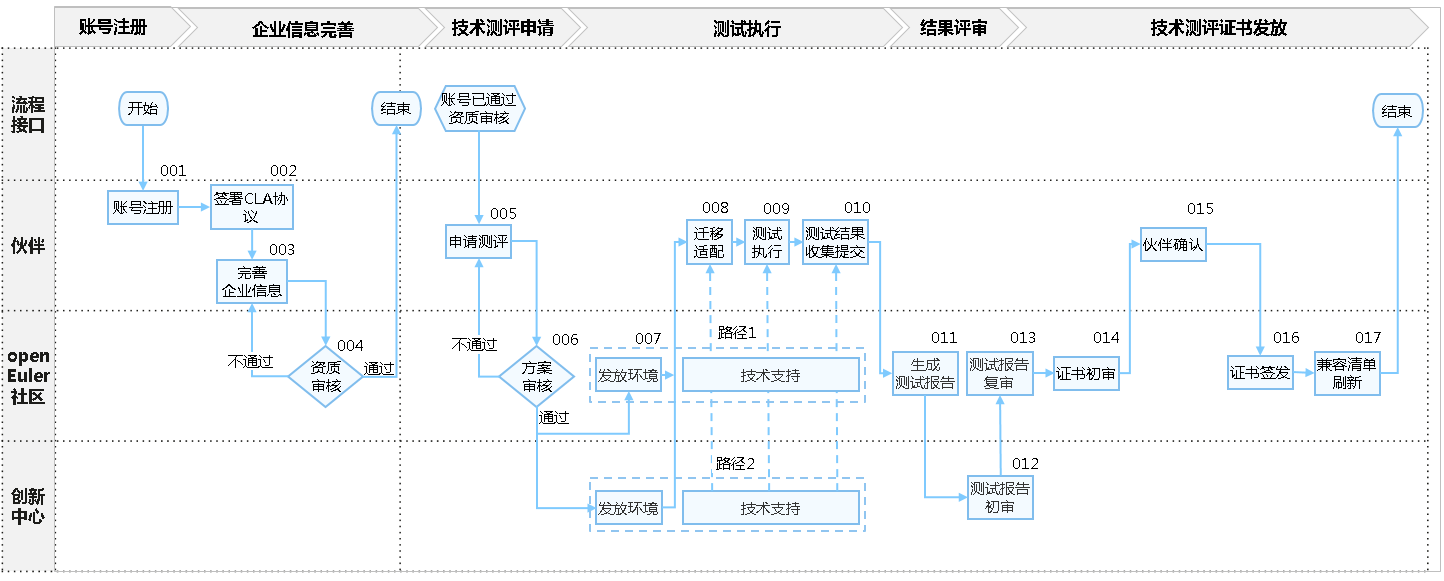
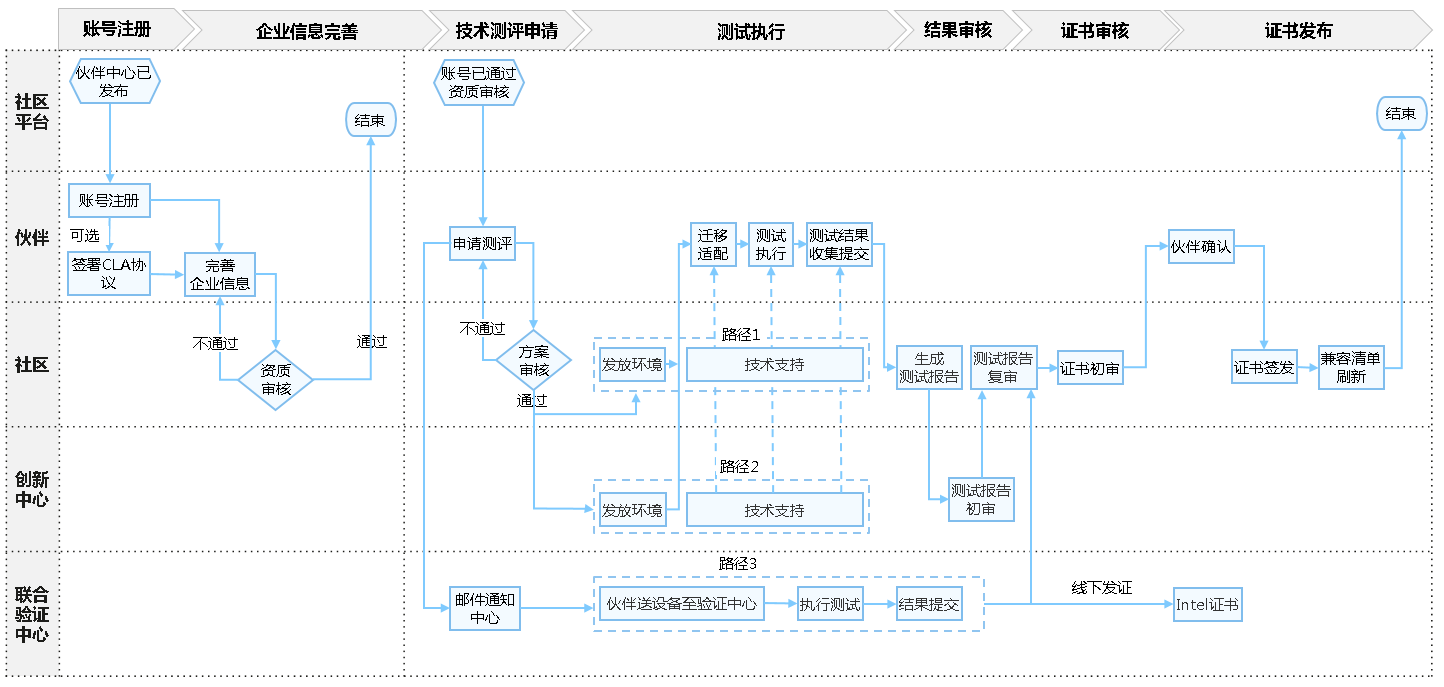
更新技术测评流程图和描述

diff --git a/README.md b/README.md
@@ -30,7 +30,7 @@ openEuler兼容性技术测评标准确认和发布的流程如下：
 
 ![openEuler技术技术测评流程](docs/openEuler技术测评流程.png)
 
-整个流程依托于[技术测评平台](https://certification.openeuler.org)进行，伙伴可直接前往平台进行测评申请。**详细的平台使用指引请见[技术测评平台用户指南](技术测评平台用户指南.md)**。如在测评过程中遇到任何问题，可联系[创新中心](https://gitee.com/openeuler/technical-certification/issues/I9MY2A?from=project-issue)支持。
+整个流程依托于[技术测评平台](https://certification.openeuler.org)进行，伙伴可直接前往平台进行测评申请。**详细的平台使用指引请见[技术测评平台用户指南](技术测评平台用户指南.md)**。如在测评过程中遇到任何问题，可联系[创新中心](https://gitee.com/openeuler/technical-certification/issues/I9MY2A?from=project-issue)和联合验证中心支持。
 
 以下是测评流程步骤简介：
 
@@ -49,6 +49,7 @@ openEuler兼容性技术测评标准确认和发布的流程如下：
 - 步骤4. 执行测试
 
   通过审核后，如果伙伴缺少测试环境，可在创新中心申请测试资源，创新中心会根据伙伴方案的需求，发放对应的测试环境，之后协助伙伴进行迁移适配、按照[测试标准](#测试标准)测试执行和测试结果收集提交，并最终生成测试报告。
+  选择联合验证中心测试的，请将服务器自行寄送至联合验证中心，联合验证中心按照测试标准进行测试执行和测试结果收集提交。
 
 - 步骤5. 提交报告评审
 
